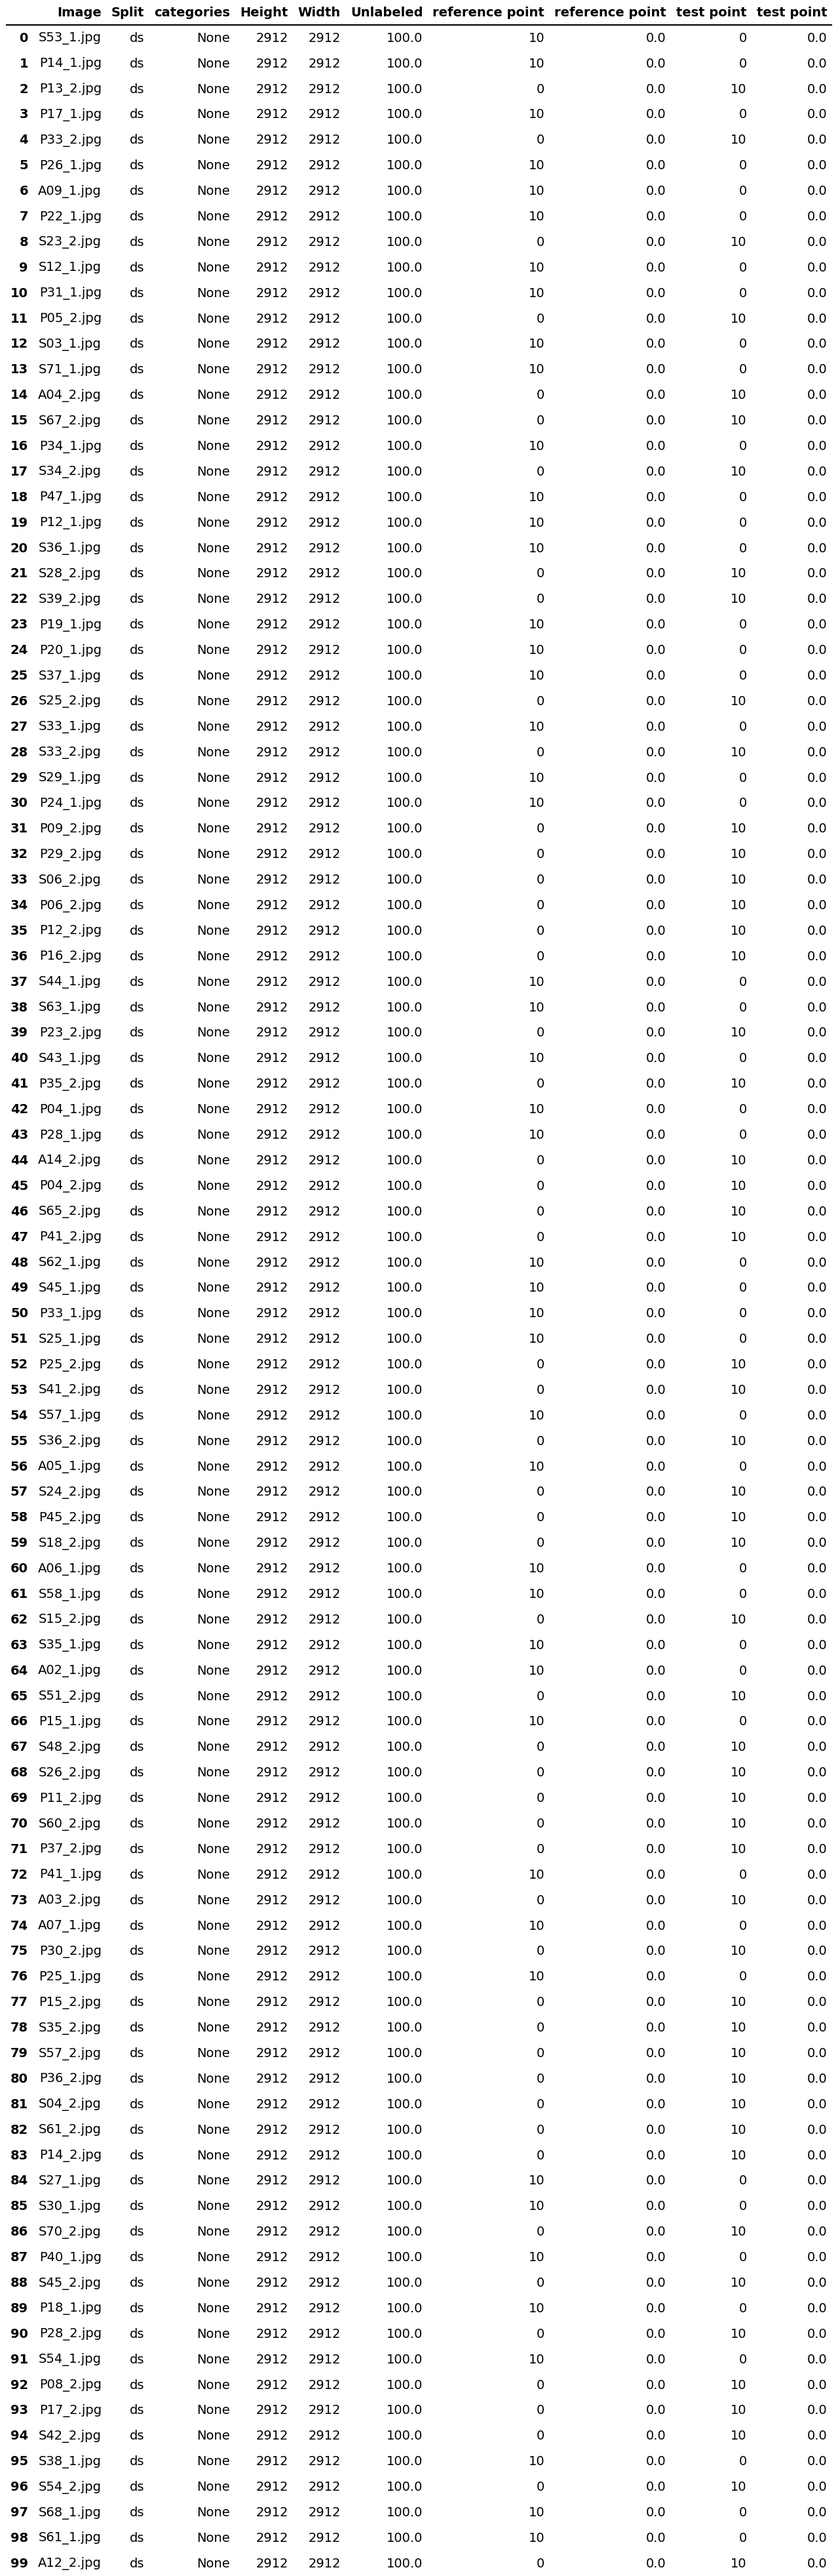
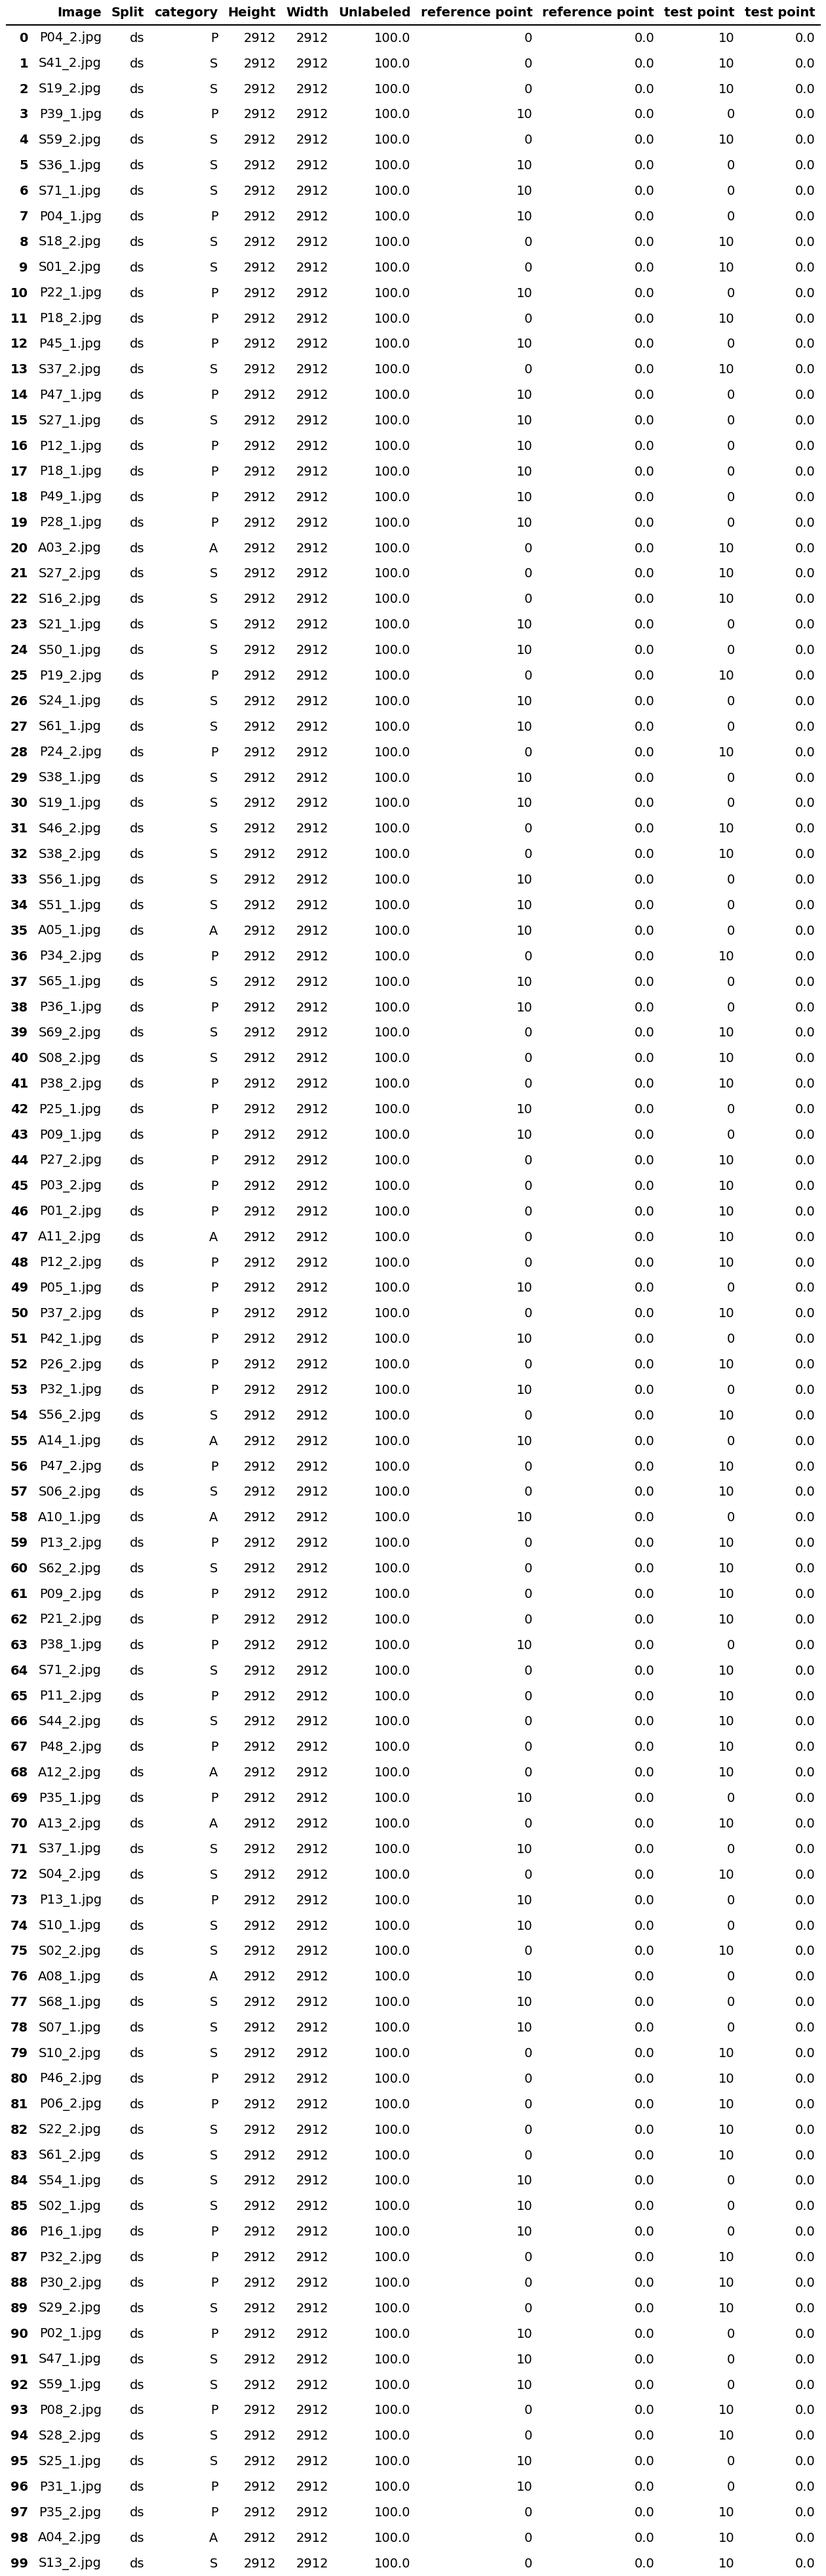
Automatic commit by repo-updater.

diff --git a/SUMMARY.md b/SUMMARY.md
@@ -2,6 +2,6 @@
 
 The dataset consists of 268 images with 2680 labeled objects belonging to 2 different classes including *reference point* and *test point*.
 
-Images in the FIRE: Fundus Image Registration Dataset dataset have bounding box annotations. All images are labeled (i.e. with annotations). There are no pre-defined <i>train/val/test</i> splits in the dataset. Alternatively, the dataset could be split into 0 categories: None. Additionally, every image marked with its ***im_id*** tags. The dataset was released in 2017 by the <span style="font-weight: 600; color: grey; border-bottom: 1px dashed #d3d3d3;">Institute of Computer Science, Greece</span>, <span style="font-weight: 600; color: grey; border-bottom: 1px dashed #d3d3d3;">University of Crete, Greece</span>, and <span style="font-weight: 600; color: grey; border-bottom: 1px dashed #d3d3d3;">Aristotle University of Thessaloniki, Greece</span>.
+Images in the FIRE: Fundus Image Registration Dataset dataset have bounding box annotations. All images are labeled (i.e. with annotations). There are no pre-defined <i>train/val/test</i> splits in the dataset. Alternatively, the dataset could be split into 3 categories: ***S*** (142 images), ***P*** (98 images), and ***A*** (28 images). Additionally, every image marked with its ***im_id*** tag. The dataset was released in 2017 by the <span style="font-weight: 600; color: grey; border-bottom: 1px dashed #d3d3d3;">Institute of Computer Science, Greece</span>, <span style="font-weight: 600; color: grey; border-bottom: 1px dashed #d3d3d3;">University of Crete, Greece</span>, and <span style="font-weight: 600; color: grey; border-bottom: 1px dashed #d3d3d3;">Aristotle University of Thessaloniki, Greece</span>.
 
 <img src="https://github.com/dataset-ninja/fire-fundus/raw/main/visualizations/poster.png">
